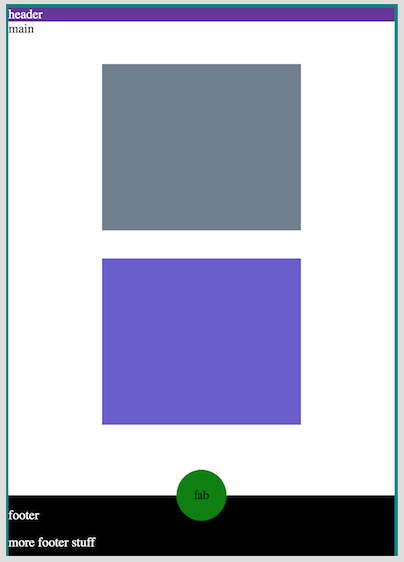
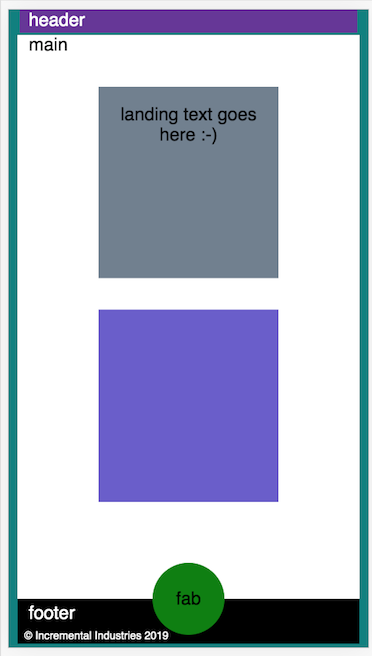
make more MDL-ish with san-serif font and a tad of content text

Changed region(s): [[0.0, 0.0, 1.0, 1.0], [0.2366, 0.0907, 0.7688, 0.4235], [0.2366, 0.4537, 0.7688, 0.7865]]

diff --git a/fab-study-1.html b/fab-study-1.html
@@ -8,6 +8,7 @@
     <style>
       .block {
         margin: 5vh auto;
+        font-family: sans-serif;
       }
       .fab {
         position: absolute;
@@ -21,21 +22,32 @@
         display: flex;
         justify-content: center;
         align-items: center;
+        font-family: sans-serif;
+      }
+      .section-text {
+        padding: 0.125em 0.5em;
+        font-family: sans-serif;
+        margin: 0.125em 0.125em;
       }
     </style>
   </head>
   <body
     style="background-color: teal;display:flex; flex-direction:column; min-height: 100vh;"
   >
-    <header style="background-color: rebeccapurple; color: white;">
+    <header
+      class="section-text"
+      style="background-color: rebeccapurple; color: white;"
+    >
       header
     </header>
     <main style="position: relative; background-color:white; flex: 1">
-      main
+      <span class="section-text">main</span>
       <div
         class="block"
-        style="background-color: slategray; height: 30vh; width: 50vw;"
-      ></div>
+        style="background-color: slategray; height: 30vh; width: 50vw; text-align: center;"
+      >
+        <p style="padding: 1em;">landing text goes here :-)</p>
+      </div>
       <div
         class="block"
         style="background-color: slateblue; height: 30vh; width: 50vw;"
@@ -43,8 +55,10 @@
       <div class="fab">fab</div>
     </main>
     <footer style="background-color: black; color: white;">
-      <p>footer</p>
-      <p>more footer stuff</p>
+      <p class="section-text">footer</p>
+      <p class="section-text" style="font-size: 0.6em;">
+        &copy; Incremental Industries 2019
+      </p>
     </footer>
   </body>
 </html>
